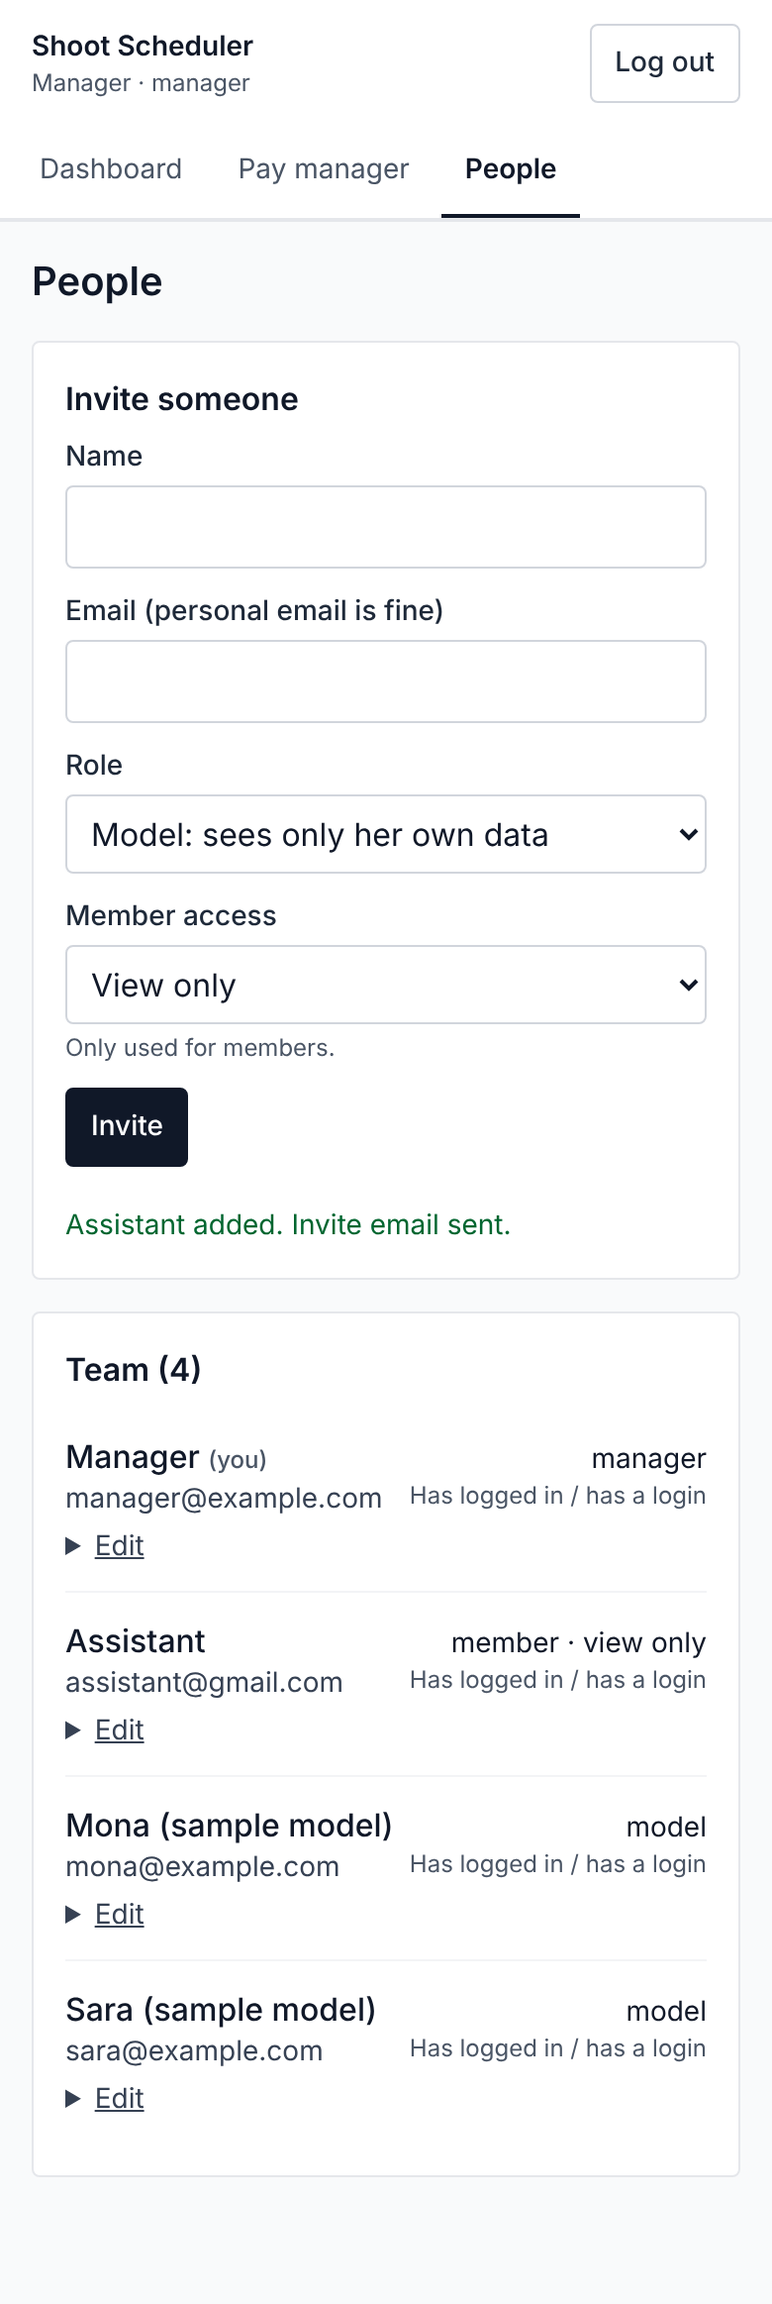
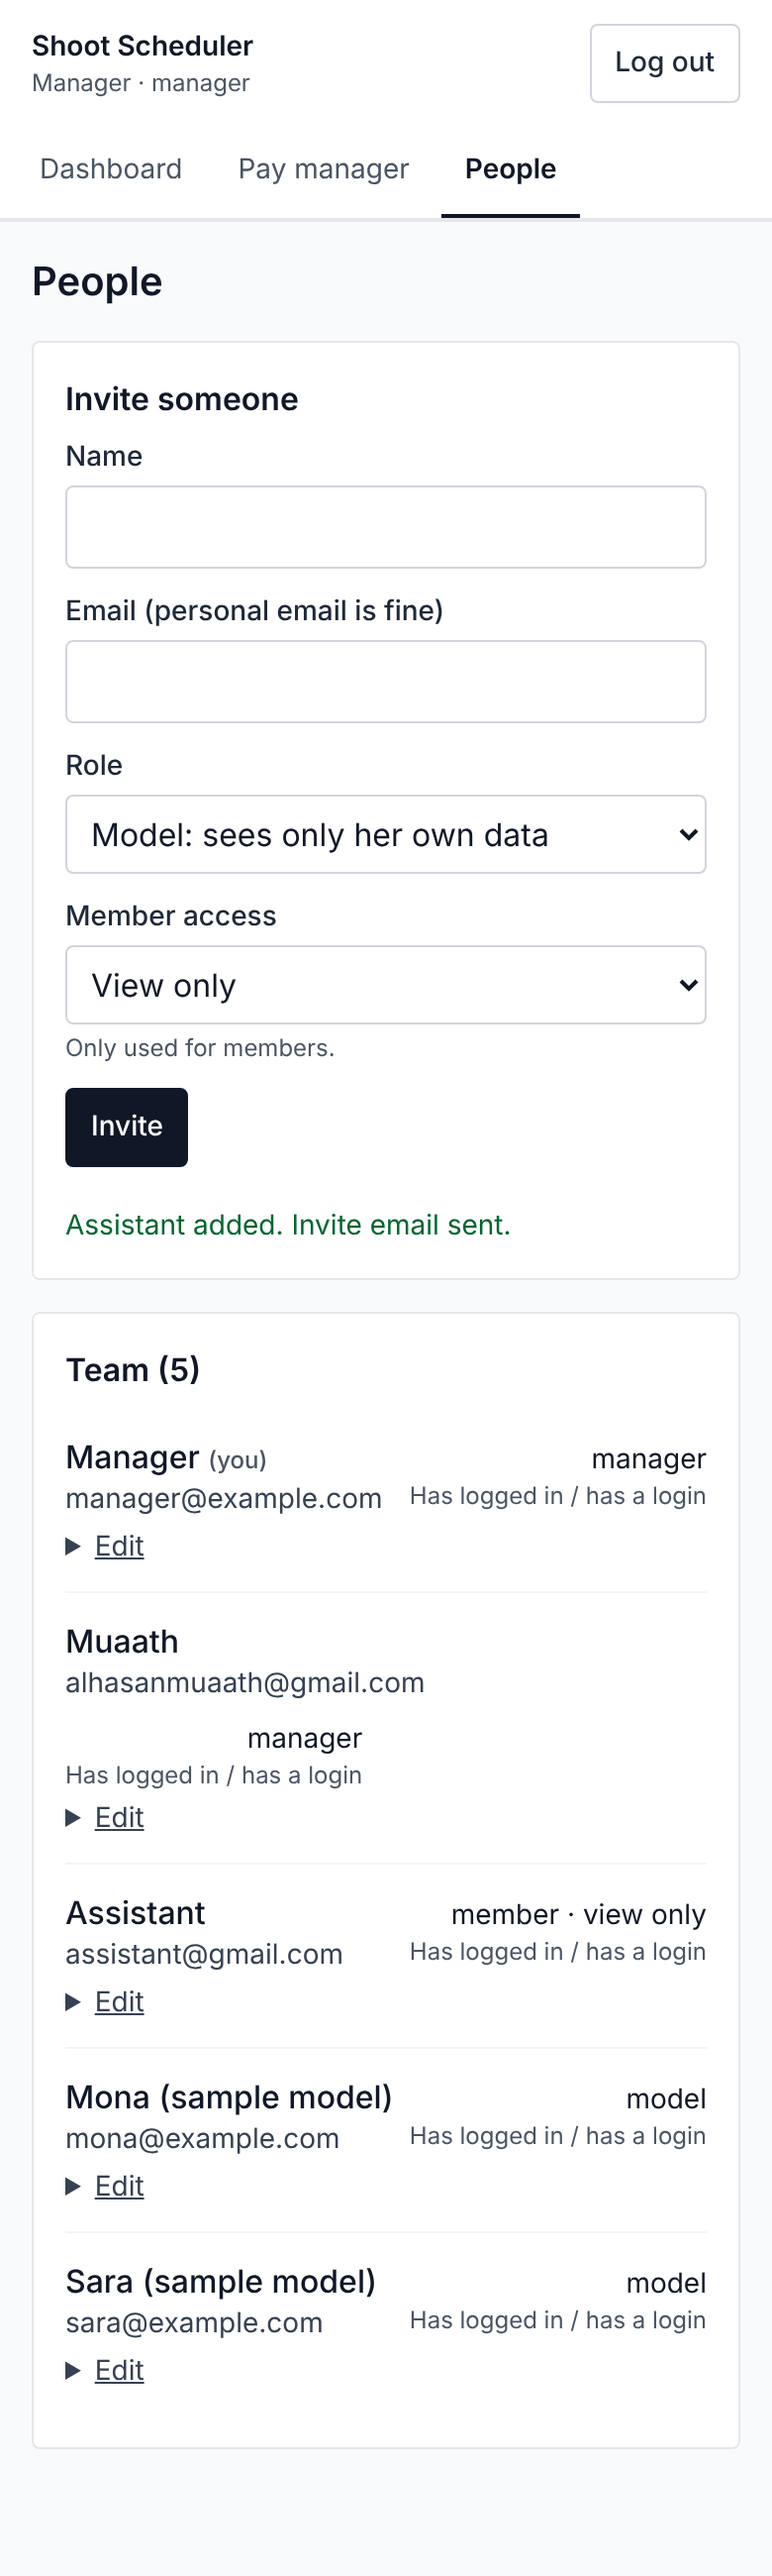
Make alhasanmuaath@gmail.com the manager; first login needs no setup script
- New migration adds the app owner as manager
- Login: an email on the team list with no login yet (first manager, or an
  invite email that never arrived) gets one created and receives a code.
  Emails not on the list are still refused.
- Tests: owner first-login path (34 browser checks), 50 DB checks

Claude-Session: https://claude.ai/code/session_01Exk8uBh8GrwHPkWdAiDEHk

diff --git a/src/app/login/actions.ts b/src/app/login/actions.ts
@@ -2,6 +2,7 @@
 
 import { headers } from 'next/headers'
 import { redirect } from 'next/navigation'
+import { createAdminClient } from '@/lib/supabase/admin'
 import { createClient } from '@/lib/supabase/server'
 
 export type LoginState = { step: 'email' | 'code'; email?: string; error?: string; info?: string }
@@ -12,11 +13,18 @@ export async function sendCode(_prev: LoginState, fd: FormData): Promise<LoginSt
   const supabase = await createClient()
   const h = await headers()
   const origin = h.get('origin') || `https://${h.get('host')}`
-  const { error } = await supabase.auth.signInWithOtp({
-    email,
-    // Only invited people have a login, so never create one here.
-    options: { shouldCreateUser: false, emailRedirectTo: `${origin}/auth/confirm` },
-  })
+  const send = () =>
+    supabase.auth.signInWithOtp({
+      email,
+      // Never let strangers create a login here (sign-ups are off).
+      options: { shouldCreateUser: false, emailRedirectTo: `${origin}/auth/confirm` },
+    })
+
+  let { error } = await send()
+  if (error && /signups not allowed|not found/i.test(error.message) && (await ensureLoginForTeamMember(email))) {
+    // They're on the team list but had no (confirmed) login yet; it exists now.
+    ;({ error } = await send())
+  }
   if (error && (error.status === 429 || /security purposes|rate limit/i.test(error.message))) {
     // A code was sent very recently (e.g. the invite email). Let them use it.
     return { step: 'code', email, info: `We sent a code to ${email} a moment ago. Check your email (and spam folder).` }
@@ -40,4 +48,22 @@ export async function verifyCode(prev: LoginState, fd: FormData): Promise<LoginS
   const { error } = await supabase.auth.verifyOtp({ email, token, type: 'email' })
   if (error) return { step: 'code', email, error: 'That code is wrong or has expired. Try again or request a new one.' }
   redirect('/')
+}
+
+/**
+ * If this email is on the team list (people table) but has no usable login yet,
+ * e.g. the first manager added by SQL, or an invite email that never arrived,
+ * create or confirm the login. Emails not on the team list are left alone.
+ */
+async function ensureLoginForTeamMember(email: string): Promise<boolean> {
+  const admin = createAdminClient()
+  if (!admin) return false
+  const { data: person } = await admin.from('people').select('user_id').eq('email', email).maybeSingle()
+  if (!person) return false
+  if (person.user_id) {
+    const { error } = await admin.auth.admin.updateUserById(person.user_id, { email_confirm: true })
+    return !error
+  }
+  const { error } = await admin.auth.admin.createUser({ email, email_confirm: true })
+  return !error
 }

diff --git a/README.md b/README.md
@@ -42,8 +42,9 @@ screens. A model's queries can only ever return her own rows.
 3. Copy `.env.example` to `.env.local` and paste them in. **Never share the secret key.**
 
 ### 2. Create the tables and security rules
-Open **SQL Editor → New query**, paste the whole file
-`supabase/migrations/20261101000000_schema.sql`, and click **Run**.
+Open **SQL Editor → New query** and run these two files, in this order (paste each one, click **Run**):
+1. `supabase/migrations/20261101000000_schema.sql`: tables, rules and security
+2. `supabase/migrations/20261101000100_initial_manager.sql`: makes **alhasanmuaath@gmail.com** the manager
 
 ### 3. Auth settings (in the Supabase dashboard)
 1. **Authentication → Sign In / Providers**: turn **off** "Allow new users to sign up". Keep **Email** enabled.
@@ -56,19 +57,19 @@ Open **SQL Editor → New query**, paste the whole file
    both free). Supabase's built-in sender only delivers to members of your Supabase team and only a few emails
    per hour, so invites to models' personal Gmail/Yahoo addresses won't arrive without this.
 
-### 4. Make yourself the manager
+### 4. Run it and log in as the manager
 ```bash
 npm install
-npm run add-manager -- "Your Name" you@gmail.com
-```
-
-### 5. Run it
-```bash
 npm run dev
 ```
-Open http://localhost:3000, enter your email, and type the code. Then go to **People** and invite your models.
+Open http://localhost:3000, enter **alhasanmuaath@gmail.com**, and type the 6-digit code from your email.
+You're the manager. Go to **People** to invite your models. (No sign-up step: because that email is on
+the team list, the app creates its login the first time you ask for a code.)
 
-### 6. Put it online (optional)
+To add another manager later, invite them on **People** with role "Manager", or run
+`npm run add-manager -- "Name" email@example.com`.
+
+### 5. Put it online (optional)
 Deploy to Vercel, add the same three variables from `.env.local` under the project's **Environment Variables**,
 and set the Supabase **Site URL** (step 3.2) to the Vercel address.
 
@@ -84,7 +85,7 @@ cp .env.example .env.local  # then paste the local keys printed by `supabase sta
 npm run seed                # 1 manager + 2 sample models (Sara, Mona) + sample data
 npm run test:db             # 50 row-level-security checks
 npm run build && npm start  # in another terminal
-npm run test:e2e            # 31 browser checks (logs in as each person)
+npm run test:e2e            # 34 browser checks (logs in as each person)
 ```
 
 Test accounts (local only): `manager@example.com`, `sara@example.com`, `mona@example.com`.
